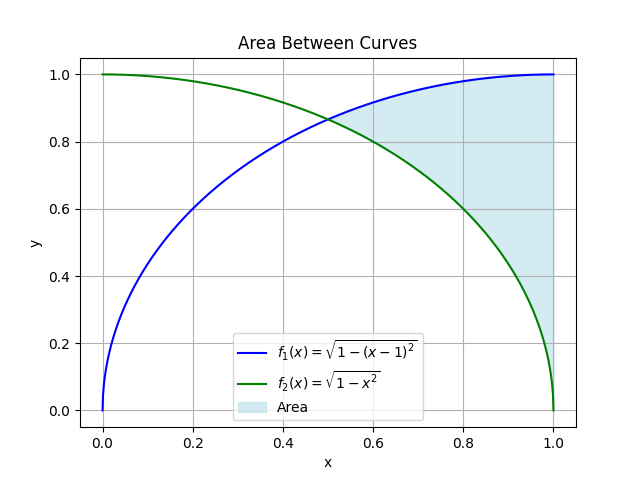
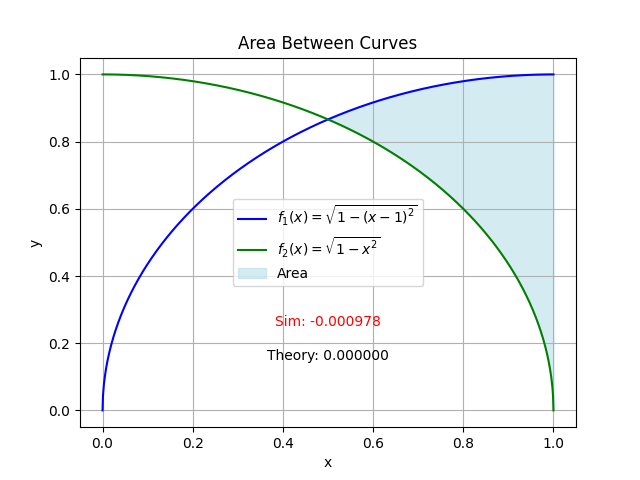
commit

diff --git a/ncert/8.2.2/codes/plot.py b/ncert/8.2.2/codes/plot.py
@@ -1,6 +1,7 @@
 import ctypes
 import numpy as np
 import matplotlib.pyplot as plt
+from scipy.integrate import quad
 
 # Load the shared object file
 code = ctypes.CDLL('./code.so')
@@ -9,15 +10,6 @@ code = ctypes.CDLL('./code.so')
 code.trapezoidal.argtypes = [ctypes.c_double, ctypes.c_double, ctypes.c_int]
 code.trapezoidal.restype = ctypes.c_double
 
-# Parameters
-x1 = 0.0  # Lower bound of integration
-x2 = 1.0  # Upper bound of integration
-steps = 1000  # Number of steps (adjust for accuracy)
-
-# Compute the area using the trapezoidal function in C
-area = code.trapezoidal(x1, x2, steps)
-print(f"Computed area between the curves: {area}")
-
 # Define the Python functions for the curves
 def f1(x):
     return np.sqrt(1 - (x - 1)**2)
@@ -25,16 +17,40 @@ def f1(x):
 def f2(x):
     return np.sqrt(1 - x**2)
 
+# Define the difference function for the theoretical area
+def difference(x):
+    return f1(x) - f2(x)
+
+# Integration bounds
+x1, x2 = 0.0, 1.0
+
+# Steps for the simulated area
+steps = 1000
+
+# Calculate the simulated area using the trapezoidal function in C
+simulated_area = code.trapezoidal(x1, x2, steps)
+
+# Calculate the theoretical area using numerical integration
+theory_area, _ = quad(difference, x1, x2)
+
+# Print the areas
+print(f"Sim (C trapezoidal): {simulated_area}")
+print(f"Theory (Python quad): {theory_area}")
+
 # Generate x values for plotting
 x_values = np.linspace(x1, x2, steps)
 f1_values = f1(x_values)
 f2_values = f2(x_values)
 
-# Plot the curves
+# Plot the curves and fill the area
 plt.plot(x_values, f1_values, label=r'$f_1(x) = \sqrt{1 - (x-1)^2}$', color='blue')
 plt.plot(x_values, f2_values, label=r'$f_2(x) = \sqrt{1 - x^2}$', color='green')
 plt.fill_between(x_values, f1_values, f2_values, where=(f1_values > f2_values), 
                  interpolate=True, color='lightblue', alpha=0.5, label='Area')
+
+# Add the simulated and theoretical area values as text
+plt.text(0.5, 0.25, f'Sim: {simulated_area:.6f}', fontsize=10, color='red', ha='center')
+plt.text(0.5, 0.15, f'Theory: {theory_area:.6f}', fontsize=10, color='black', ha='center')
 
 # Add labels, legend, and show the plot
 plt.xlabel('x')
